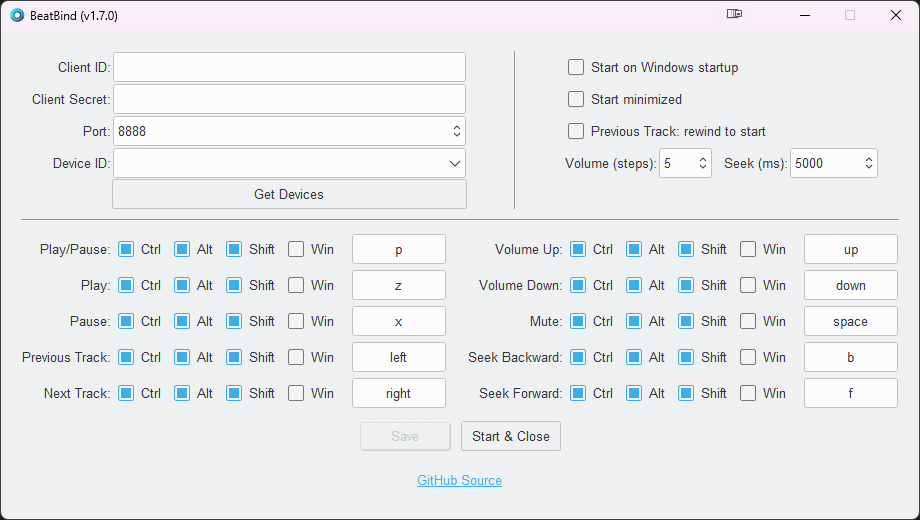
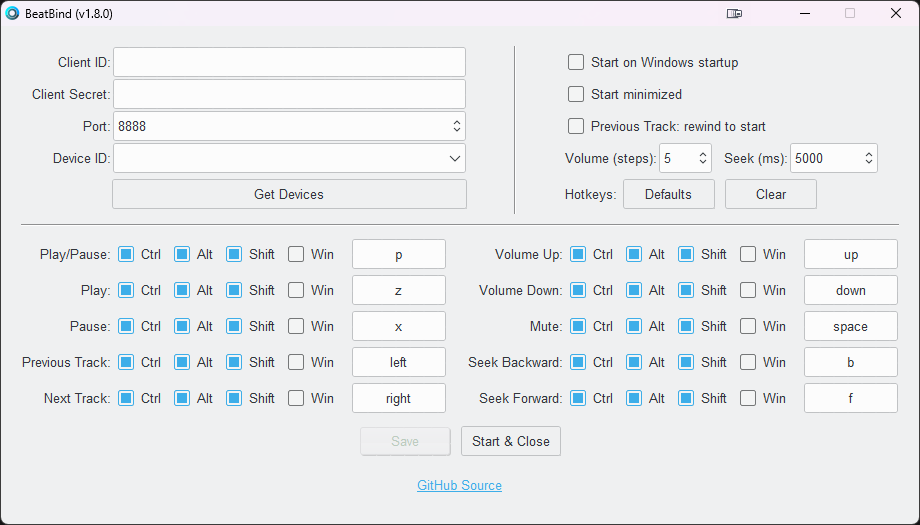
update README and always create tokens on Get Devices

diff --git a/BeatBind/frontend.py b/BeatBind/frontend.py
@@ -197,9 +197,8 @@ class Frontend(object):
             window.after(100, window.focus_force())
 
         def device_action():
-            if not self.app.TokenExists():
-                self.app.CreateToken()
             set_input_fields()
+            self.app.CreateToken()
             update_devices()
 
         def defaults_action():

diff --git a/BeatBind/backend.py b/BeatBind/backend.py
@@ -560,6 +560,7 @@ class Backend(object):
             return False
 
         cache_file = os.path.join(self.app_folder, ".cache")
+
         # Delete cache file if it exists
         if os.path.exists(cache_file):
             os.remove(cache_file)

diff --git a/README.md b/README.md
@@ -1,7 +1,7 @@
 # <img src="./BeatBind/icon.ico" width="4%" height="5%"> BeatBind - Spotify Global Hotkeys
 
 ![build](https://img.shields.io/badge/build-passing-brightgreen)
-[![version](https://img.shields.io/badge/version-1.7.0-blue)](https://github.com/justinknguyen/BeatBind/releases/tag/v1.7.0)
+[![version](https://img.shields.io/badge/version-1.8.0-blue)](https://github.com/justinknguyen/BeatBind/releases/tag/v1.8.0)
 ![python](https://img.shields.io/badge/python-3.10.9-yellow)
 [![contributions welcome](https://img.shields.io/badge/contributions-welcome-brightgreen.svg?style=flat)](https://github.com/justinknguyen/BeatBind/issues)
 
